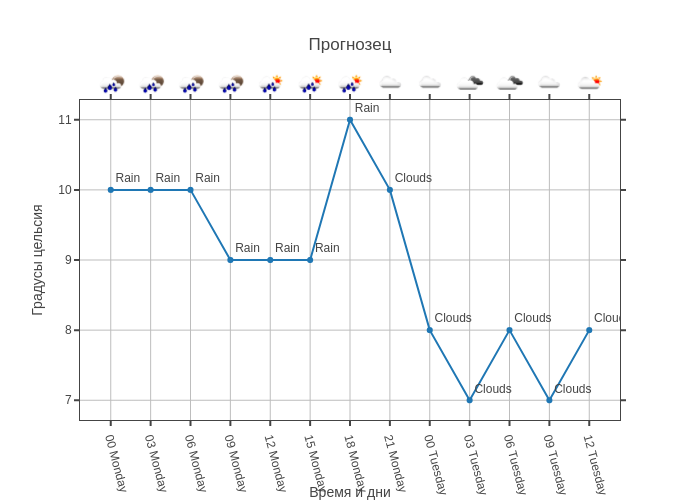
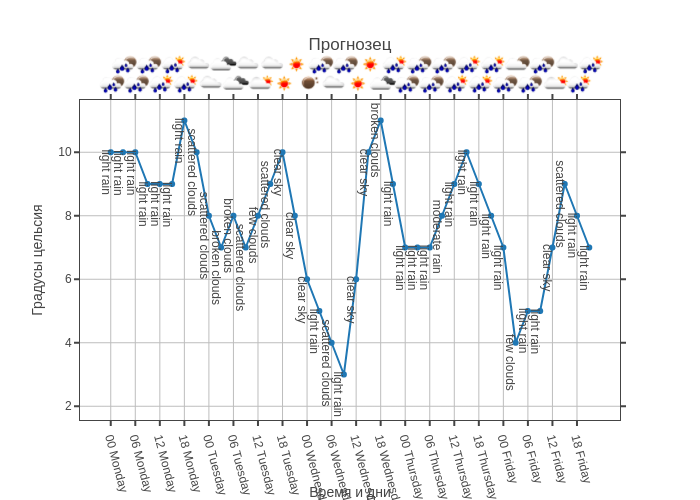
Worked 0.02

diff --git a/try_chart.py b/try_chart.py
@@ -18,7 +18,9 @@ with open('result.txt', 'r') as result:
     api = json.loads(result.read())
 
 # change days to observe
-api['list'] = api['list'][:13]
+#api['list'] = api['list']
+#api['list'] = api['list'][:13]
+#api['list'] = api['list'][:30]
 
 #for point in api['list']:
 #    print(round(point['main']['temp']-273))
@@ -26,33 +28,53 @@ api['list'] = api['list'][:13]
 temps = [ round(t['main']['temp']-273) for t in api['list'] ]
 
 dates = []
-last_date = ''
 for date in [ d['dt'] for d in api['list'] ]:
     dates.append(convert_to_MSK_tz(date))
 
 
-texts = [ tx['weather'][0]['main'] for tx in api['list'] ]
+texts = [ tx['weather'][0]['description'] for tx in api['list'] ]
 
-texposition = []
-temp = 0
-for t in temps:
-    if t 
-textposition
+textposition = []
+counter = 0
+for t in temps[:-1]:
+    if temps[counter+1] > t:   # if next temp will be higher than current, text should be lower
+        textposition.append('bottom left')
+    else:
+        textposition.append('top left')
+    counter += 1 
+#print(textposition)
 
 
 temp_min = min(temps)
 
+#                'x': 0.03 + api['list'].index(ico)*0.0735,
+#                'x': 0.03 + api['list'].index(ico)*0.91/len(api['list']),
+# x 0.955 for 13 units
+# x 0.91 for 40 units
 # Generate list with dicts
 images_ico = [ {'sizex': 0.1, 
                 'sizey': 0.1, 
-                'x': 0.03 + api['list'].index(ico)*0.0735,
-                'y': 1 + api['list'].index(ico)*0,
+                'x': 0.03 + count*0.91/len(api['list']),
+                'y': 1 + 0.06*(count%2),
                 'xref': 'paper', 
                 'yref': 'paper', 
                 'xanchor': 'left',
                 'yanchor': 'bottom',
-                'source': 'http://openweathermap.org/img/w/{}.png'.format(ico['weather'][0]['icon'])} for ico in api['list'] ]
-#print(images_ico)
+                'source': 'http://openweathermap.org/img/w/{}.png'.format(api['list'][count]['weather'][0]['icon'])} for count in range(len(api['list'])) ]
+print(images_ico)
+
+# Try annotations
+annotations = [{'xref': 'x',
+                'yref': 'y',
+                'showarrow': True,
+                'arrowhead': 0,
+                'ax': -5,
+                'ay': 20,
+                'textangle': 90,
+                'x': dates[count],
+                'y': temps[count],
+                'text': texts[count]} for count in range(len(api['list']))]
+#print(annotations)
 
 #    msk_tz = convert_to_MSK_tz(date)
 #    if last_date != msk_tz.split()[1]:
@@ -64,15 +86,19 @@ images_ico = [ {'sizex': 0.1,
 #print(dates)
 #print(temps)
 
+#data = [{'x':dates, 
+#         'y':temps, 
+#         'text':texts, 
+#         'textposition': textposition,
+#         'mode':'lines+markers+text'}]
+
 data = [{'x':dates, 
          'y':temps, 
-         'text':texts, 
-         'textposition': 'top right',
          'mode':'lines+markers+text'}]
-#data = [{'x':dates[:24], 'y':temps[:24], 'mode':'lines+markers'}]
 
 layout = go.Layout(title='Прогнозец',
                    images=images_ico, 
+                   annotations=annotations,
                    xaxis=dict(
                               title='Время и дни', 
                               ticks='outside', 
@@ -95,31 +121,6 @@ layout = go.Layout(title='Прогнозец',
                               gridwidth=1,
                               mirror='ticks'
                               ))
-
-#layout = go.Layout(title='Прогнозец', 
-#                   xaxis=dict(
-#                              title='Время и дни', 
-#                              ticks='outside', 
-#                              showticklabels=True,
-#                              tickangle=75,
-#                              tickwidth=2, 
-#                              showgrid=True, 
-#                              showline=True,
-#                              gridcolor='#bdbdbd',
-#                              gridwidth=1, 
-#                              mirror='ticks'
-#                              ), 
-#                   yaxis=dict(
-#                              title='Градусы цельсия',
-#                              ticks='outside',
-#                              tickwidth=2, 
-#                              showgrid=True,
-#                              showline=True, 
-#                              gridcolor='#bdbdbd',
-#                              gridwidth=1,
-#                              mirror='ticks'
-#                              ))
-#layout = go.Layout(title='Прогнозец', xaxis={'title': 'Dates', 'ticks': 'outside', 'showticklabels': True, 'tickangle': 75}, yaxis={'title': 'Celsium'})
 
 fig = go.Figure(data=data, layout=layout)
 
